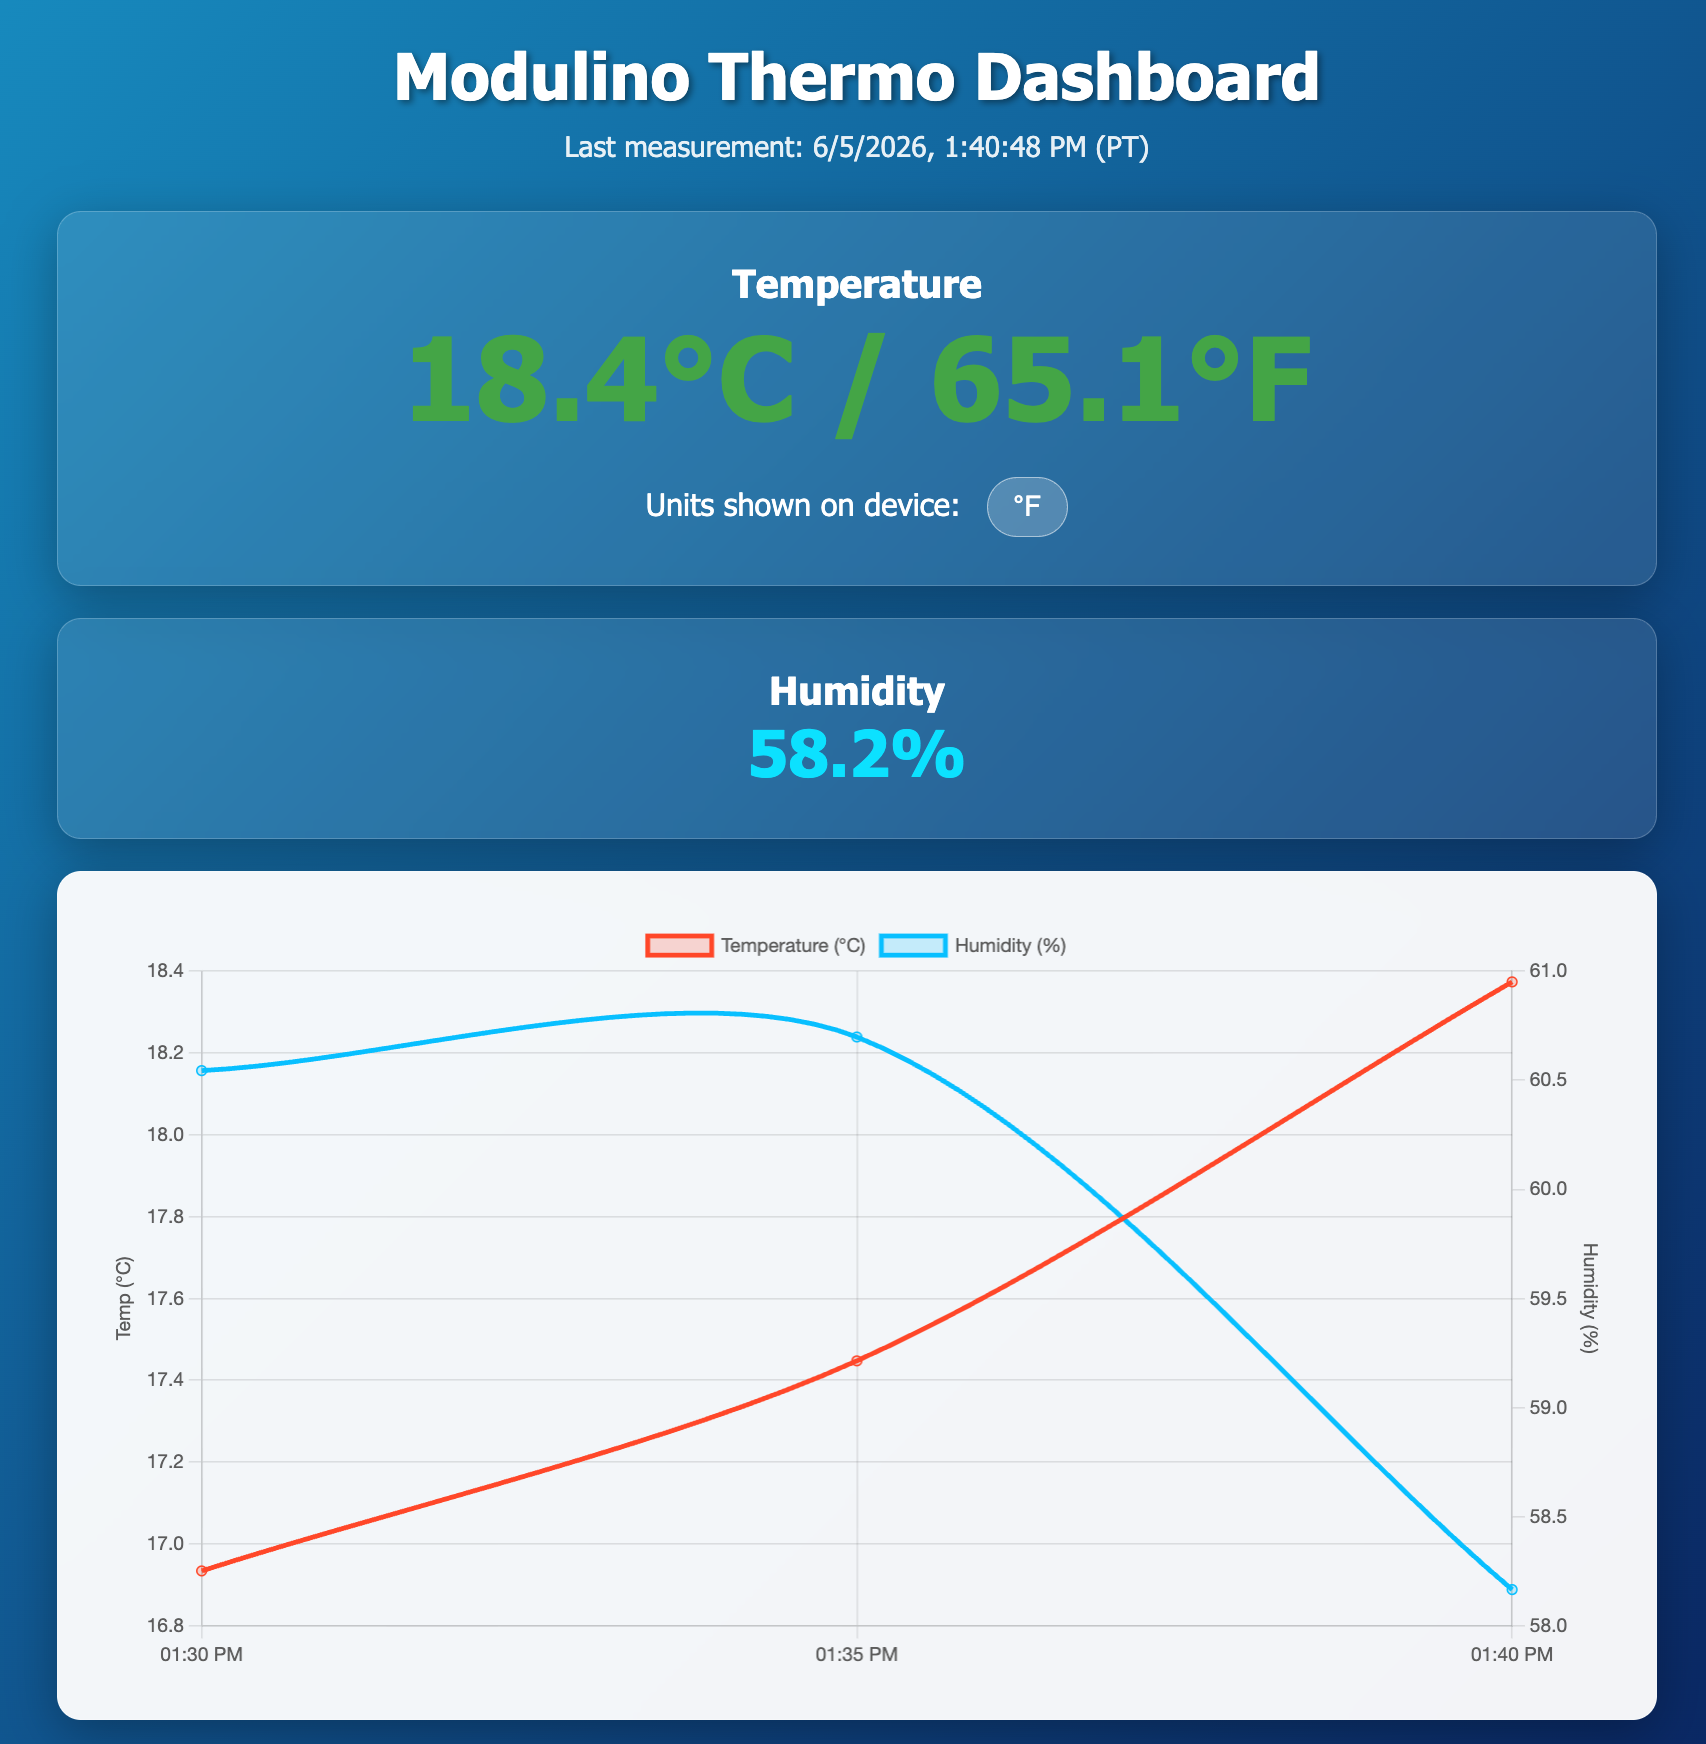
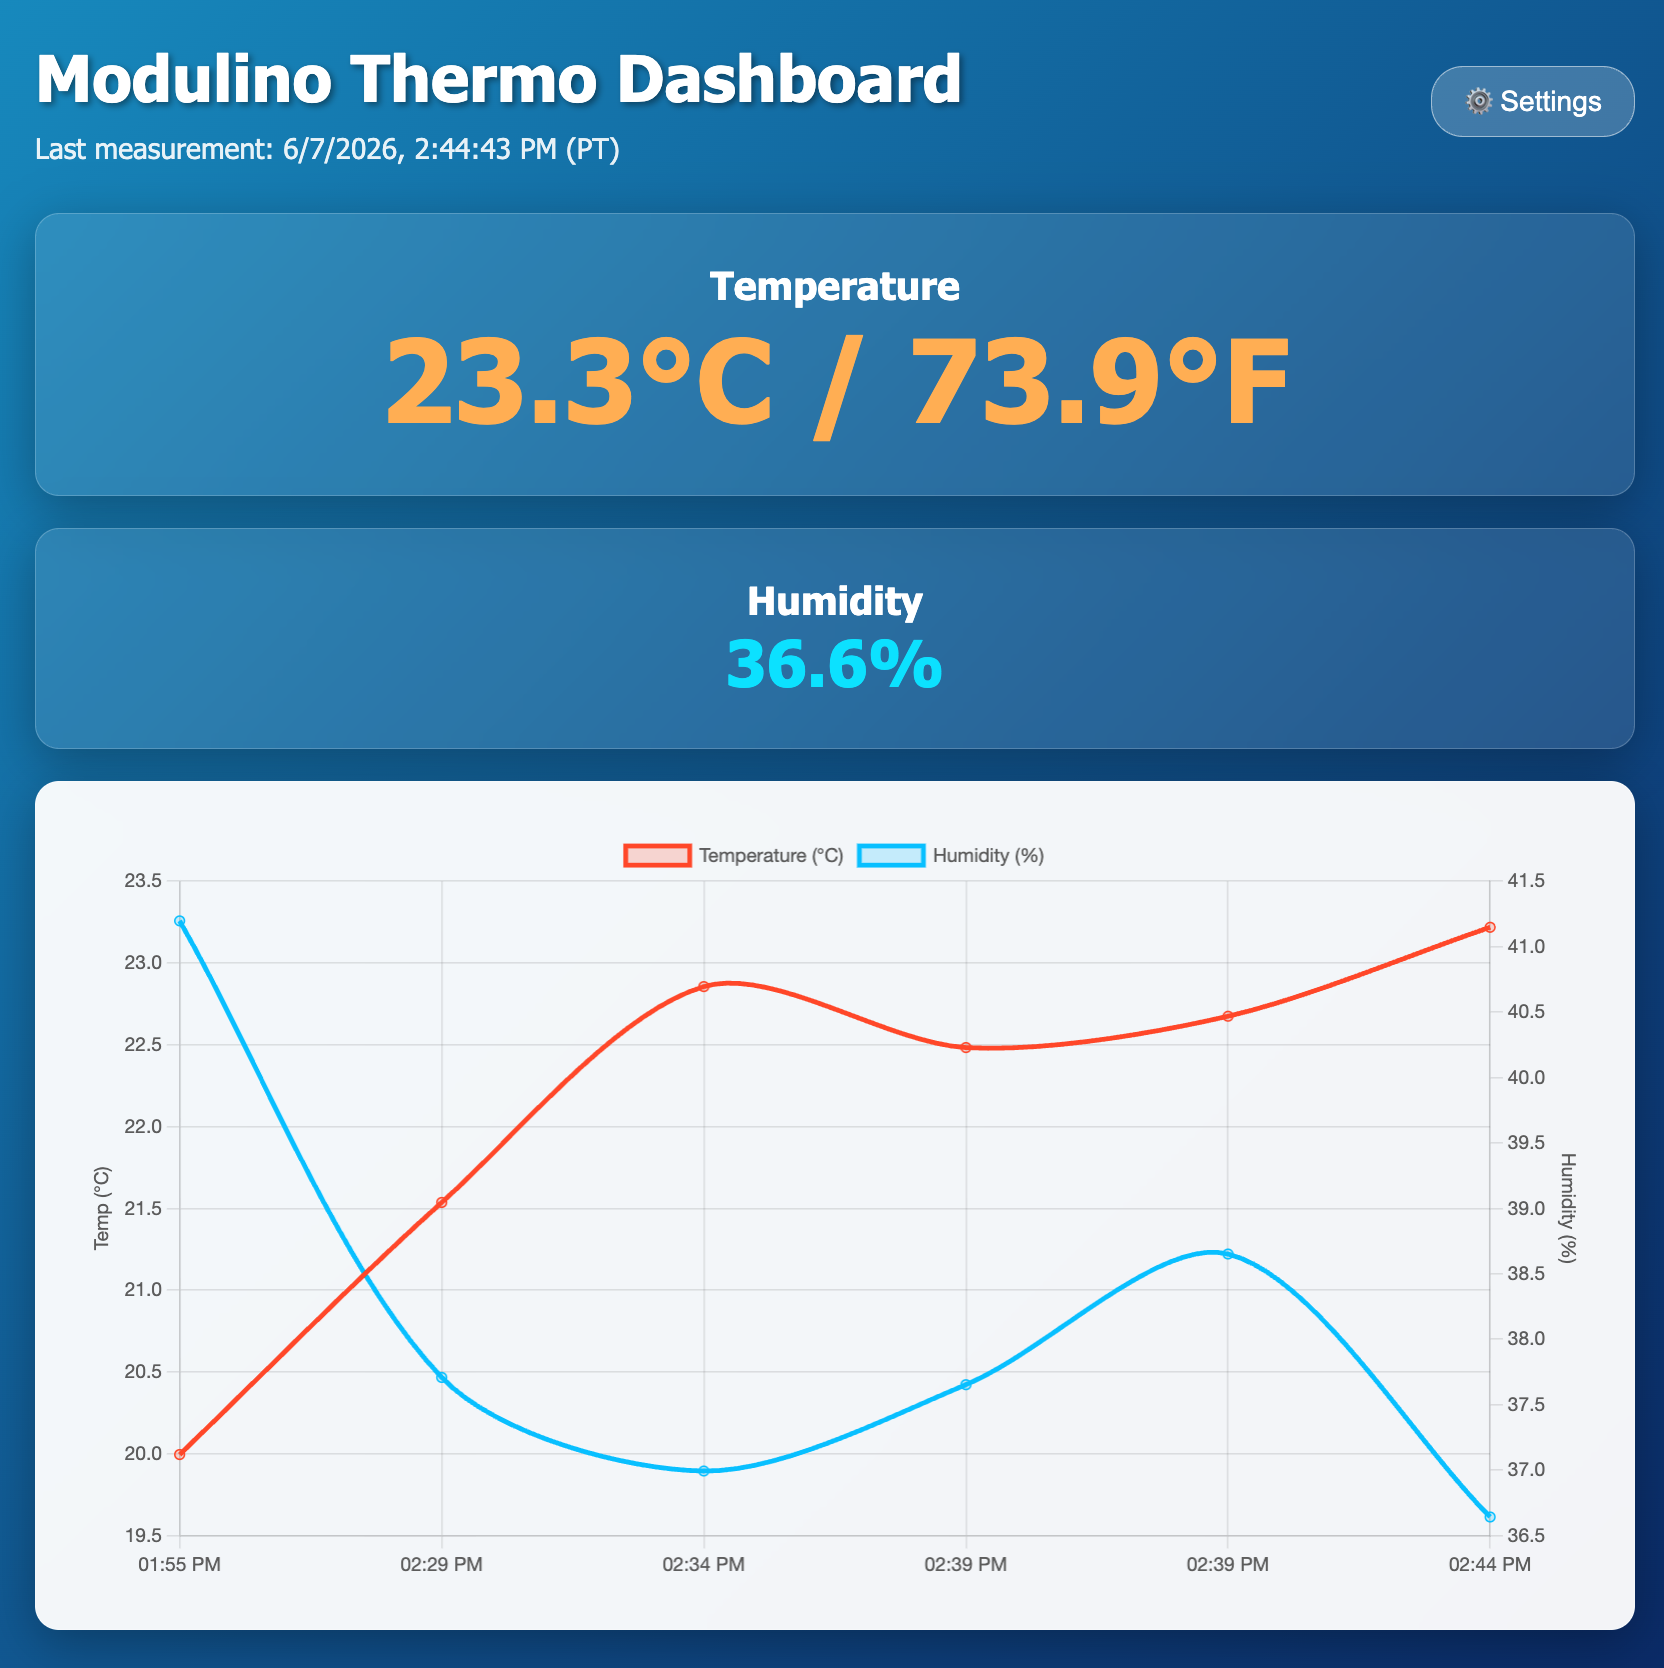
fix settings panel

diff --git a/assets/style.css b/assets/style.css
@@ -15,8 +15,15 @@ body {
 
 header {
   text-align: center;
-  margin-bottom: 30px;
-  margin-top: 20px;
+}
+
+.header-container {
+  display: flex;
+  justify-content: space-between;
+  align-items: center;
+  max-width: 1000px;
+  margin: 20px auto 30px auto;
+  text-align: left;
 }
 
 h1 {
@@ -99,4 +106,133 @@ h1 {
 
 #humidity-display {
   color: #00e5ff;
+}
+
+/* Settings Button (Header) */
+.settings-btn {
+  background: rgba(255, 255, 255, 0.2);
+  border: 1px solid rgba(255, 255, 255, 0.5);
+  color: white;
+  padding: 10px 20px;
+  border-radius: 20px;
+  font-size: 1.1rem;
+  cursor: pointer;
+  transition: background 0.3s;
+}
+
+.settings-btn:hover {
+  background: rgba(255, 255, 255, 0.4);
+}
+
+/* Floating Settings Modal Overlay */
+.modal-overlay {
+  display: none; /* Changed to flex via app.js */
+  position: fixed;
+  top: 0;
+  left: 0;
+  width: 100%;
+  height: 100%;
+  background: rgba(0, 0, 0, 0.6);
+  z-index: 1000;
+  justify-content: center;
+  align-items: center;
+  backdrop-filter: blur(5px);
+}
+
+/* Modal Card Content */
+.modal-content {
+  background: rgba(20, 20, 40, 0.95);
+  border: 1px solid rgba(255, 255, 255, 0.2);
+  border-radius: 15px;
+  padding: 30px;
+  width: 90%;
+  max-width: 450px;
+  box-shadow: 0 15px 40px rgba(0, 0, 0, 0.5);
+  color: white;
+}
+
+.modal-header {
+  display: flex;
+  justify-content: space-between;
+  align-items: center;
+  margin-bottom: 25px;
+}
+
+.modal-title {
+  font-size: 1.5rem;
+  margin: 0;
+}
+
+.close-btn {
+  background: none;
+  border: none;
+  color: rgba(255, 255, 255, 0.6);
+  font-size: 2rem;
+  cursor: pointer;
+  transition: color 0.3s;
+}
+
+.close-btn:hover {
+  color: white;
+}
+
+.modal-row {
+  display: flex;
+  justify-content: space-between;
+  align-items: center;
+  margin-bottom: 20px;
+  font-size: 1.1rem;
+}
+
+.btn-primary {
+  background: rgba(255, 255, 255, 0.2);
+  border: 1px solid rgba(255, 255, 255, 0.5);
+  color: white;
+  padding: 8px 16px;
+  border-radius: 8px;
+  font-size: 1rem;
+  cursor: pointer;
+  transition: background 0.3s;
+}
+
+.btn-primary:hover {
+  background: rgba(255, 255, 255, 0.4);
+}
+
+.select-dropdown {
+  background: rgba(0, 0, 0, 0.3);
+  border: 1px solid rgba(255, 255, 255, 0.5);
+  color: white;
+  padding: 8px 12px;
+  border-radius: 8px;
+  font-size: 1rem;
+  cursor: pointer;
+  outline: none;
+}
+
+.select-dropdown option {
+  background: #1e1e2f;
+  color: white;
+}
+
+.modal-footer {
+  margin-top: 30px;
+  display: flex;
+  justify-content: flex-end;
+}
+
+.btn-ok {
+  background: #4caf50;
+  border: none;
+  color: white;
+  padding: 10px 30px;
+  border-radius: 8px;
+  font-size: 1.1rem;
+  cursor: pointer;
+  font-weight: bold;
+  transition: background 0.3s;
+}
+
+.btn-ok:hover {
+  background: #45a049;
 }

diff --git a/assets/index.html b/assets/index.html
@@ -16,7 +16,7 @@
             <h1>Modulino Thermo Dashboard</h1>
             <p id="timestamp">Last measurement: Loading...</p>
         </div>
-        <button onclick="openSettings()" class="settings-btn" title="Settings">⚙️</button>
+        <button onclick="openSettings()" class="settings-btn" title="Settings">⚙️ Settings</button>
     </header>
 
     <div class="container flex-col">
@@ -56,6 +56,9 @@
                     <option value="12">12 hours</option>
                     <option value="24">24 hours</option>
                 </select>
+            </div>
+            <div class="modal-footer">
+                <button onclick="closeSettings()" class="btn-ok">OK</button>
             </div>
         </div>
     </div>